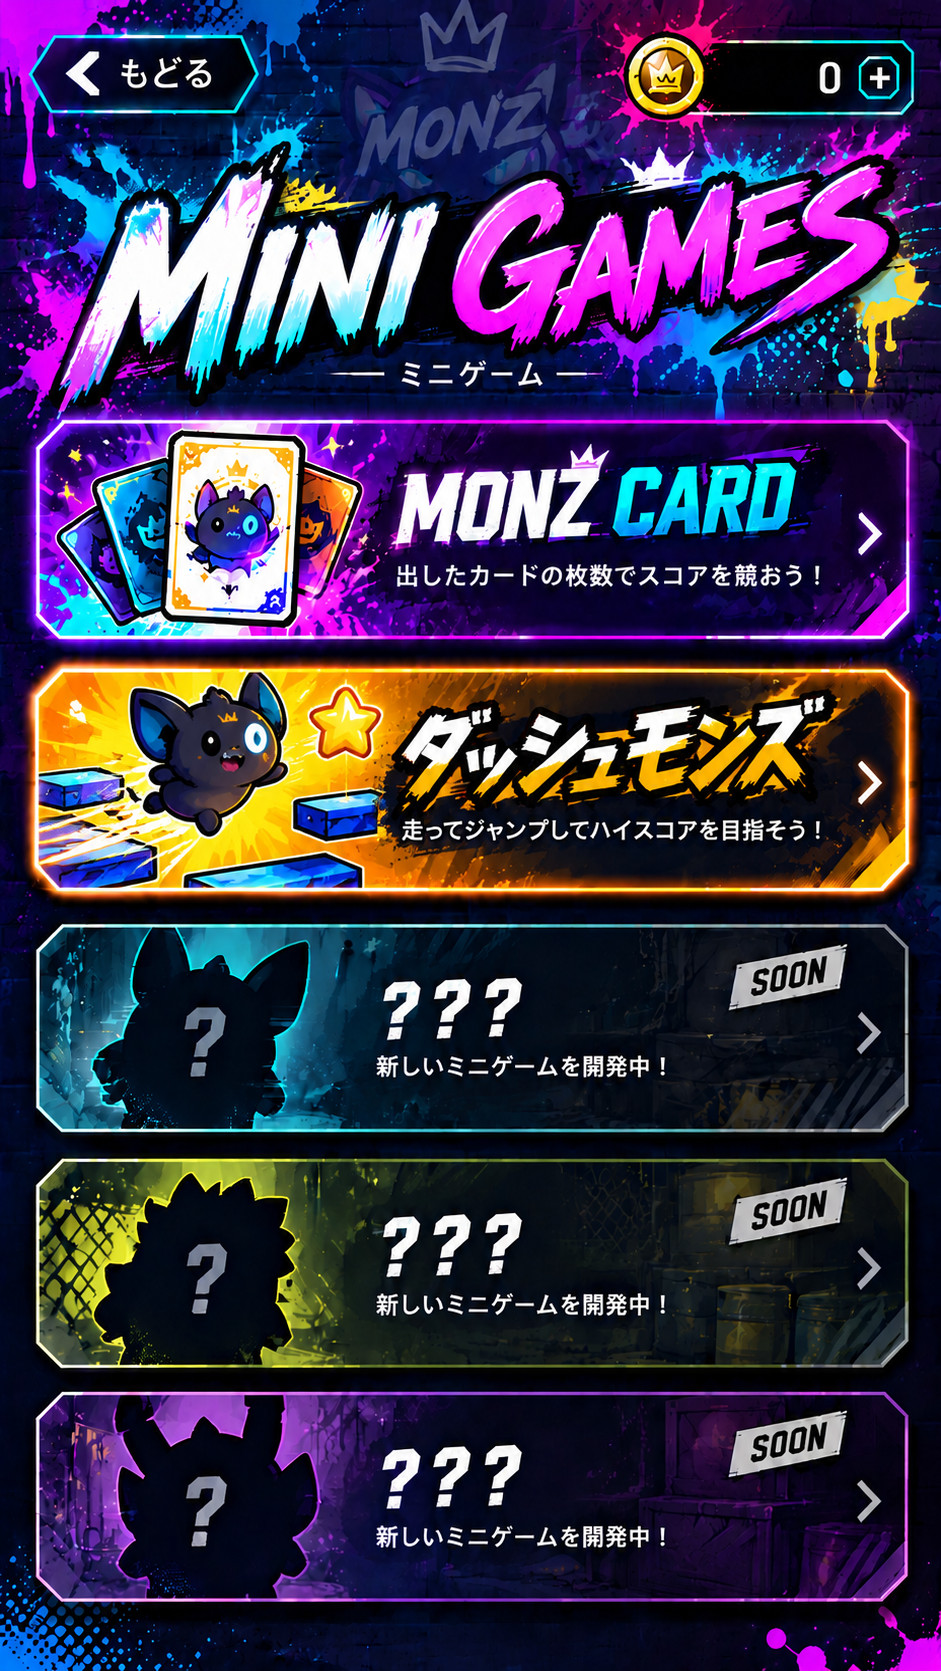
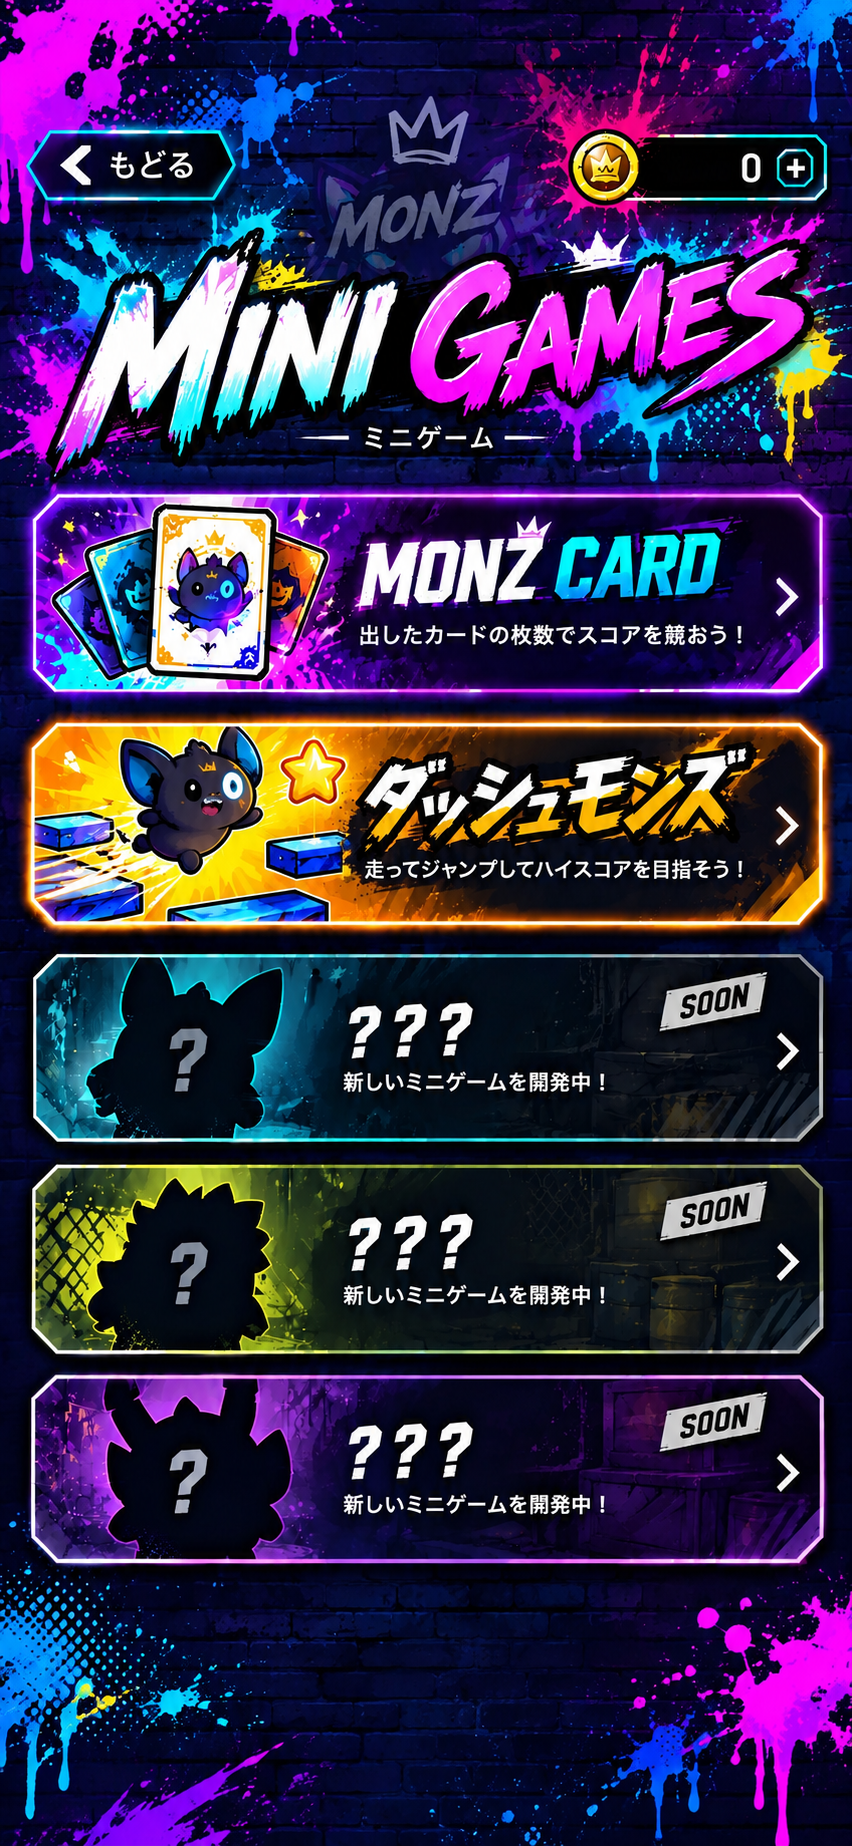
ミニゲーム選択を全画面用の縦長の絵に
Claude-Session: https://claude.ai/code/session_01MXithgTc5umkveoyZShZHQ

diff --git a/src/scenes/MinigameSelectScene.ts b/src/scenes/MinigameSelectScene.ts
@@ -7,28 +7,32 @@ import { canvasTexture, canvasTextureOnce, UI_FONT } from '../ui/paint';
 import { drawPanel } from '../ui/homeArt';
 import { homeIconKey } from './HomeScene';
 import { preloadPacks } from '../render/packs';
+import { fillSize } from '../ui/viewport';
 
 const W = 720;
 const H = 1280;
 const CARD = { w: 660, h: 176, gap: 22, top: 300 };
 
-/** 企画者のセレクト画面の絵(design/minigame/select.png・941x1671)。押せる場所は、この絵の座標で決める */
+/**
+ * 企画者のセレクト画面の絵(design/minigame/select.png)。押せる場所は、この絵の座標で決める。
+ * 2026-11-08 全画面用の 縦長の 絵(852x1846)に 作り直し(前の 絵 941x1671 は unused/)
+ */
 export const SELECT_IMAGE = 'mg:select';
-const ART = { w: 941, h: 1671 };
-const ART_BACK = [30, 38, 255, 110];
+const ART = { w: 852, h: 1846 };
+const ART_BACK = [26, 128, 238, 204];
 /** 上から MONZ CARD・ダッシュモンズ・？？？×3 の看板 */
 const ART_CARDS = [
-  [38, 420, 910, 640],
-  [38, 668, 910, 890],
-  [38, 925, 910, 1132],
-  [38, 1160, 910, 1367],
-  [38, 1393, 910, 1602],
+  [33, 494, 822, 691],
+  [33, 723, 822, 924],
+  [33, 954, 822, 1140],
+  [33, 1165, 822, 1353],
+  [33, 1375, 822, 1562],
 ];
 /** 企画者の絵に名前まで描いてあるゲームの数(これより後のゲームは、？？？の上に名前を重ねて出す) */
 const ART_PAINTED = 2;
 /** 看板の中の「？？？・説明」と「SOON」の場所(看板の左上からの位置) */
-const ART_SLOT_TEXT = [332, 36, 712, 176];
-const ART_SLOT_SOON = [712, 12, 858, 176];
+const ART_SLOT_TEXT = [300, 30, 620, 172];
+const ART_SLOT_SOON = [620, 10, 770, 110];
 
 /**
  * あとから届いた看板の絵(ゲームの id ごと)。frame: 絵の中の黄色い枠の位置(元の絵の大きさ srcW での座標)。
@@ -39,7 +43,7 @@ export const SELECT_CARD_ART: Record<string, { key: string; file: string; srcW: 
 };
 
 /** 絵に描いてある「0」を隠して、本当のコインの数を出す場所 */
-const ART_COIN_NUMBER = [715, 52, 846, 104];
+const ART_COIN_NUMBER = [650, 140, 772, 190];
 
 /**
  * ミニゲームのセレクト画面(お世話画面の「ミニゲーム」から開く)。
@@ -64,9 +68,14 @@ export class MinigameSelectScene extends Phaser.Scene {
 
   /** 企画者の絵で作る */
   private buildFromArt(): void {
+    // 全画面: 絵の 形の まま 横はばに 合わせる(画面が 絵より 長ければ 下は 背景色)
     const sx = W / ART.w;
-    const sy = H / ART.h;
-    this.add.image(0, 0, SELECT_IMAGE).setOrigin(0, 0).setDisplaySize(W, H);
+    const sy = sx;
+    const tall = Math.max(fillSize(this, { w: W, h: H }, { minRatio: 0.4, maxRatio: W / H }).h, H);
+    this.scale.setGameSize(W, tall);
+    this.events.once(Phaser.Scenes.Events.SHUTDOWN, () => this.scale.setGameSize(W, H));
+    this.cameras.main.setBackgroundColor('#0b0a18');
+    this.add.image(0, 0, SELECT_IMAGE).setOrigin(0, 0).setDisplaySize(W, ART.h * sy);
     const zone = ([x0, y0, x1, y1]: number[], onTap: (z: Phaser.GameObjects.Rectangle) => void) => {
       const z = this.add.rectangle(x0 * sx, y0 * sy, (x1 - x0) * sx, (y1 - y0) * sy, 0xffffff, 0).setOrigin(0, 0).setInteractive({ useHandCursor: true });
       z.on('pointerdown', () => onTap(z));
@@ -134,7 +143,7 @@ export class MinigameSelectScene extends Phaser.Scene {
 
   private toast(msg: string): void {
     const t = this.add
-      .text(W / 2, H * 0.5, msg, { fontFamily: UI_FONT, fontSize: '34px', fontStyle: '900', color: '#ffffff', backgroundColor: '#16101cdd', padding: { x: 22, y: 12 } })
+      .text(W / 2, this.scale.height * 0.5, msg, { fontFamily: UI_FONT, fontSize: '34px', fontStyle: '900', color: '#ffffff', backgroundColor: '#16101cdd', padding: { x: 22, y: 12 } })
       .setOrigin(0.5)
       .setDepth(10);
     this.tweens.add({ targets: t, alpha: 0, y: t.y - 40, delay: 900, duration: 400, onComplete: () => t.destroy() });

diff --git a/src/ui/viewport.ts b/src/ui/viewport.ts
@@ -43,7 +43,7 @@ export function watchViewport(scene: Phaser.Scene, onChange: () => void): void {
 /** ふつうの たての 画面の 大きさ */
 export const PORTRAIT_SIZE = { w: 720, h: 1280 } as const;
 /** 自分で 画面の 大きさを 決める 画面(MYTHCLASH・3D・冒険・ストーリーなど)は さわらない */
-const OWN_SIZE = new Set(['Boot', 'Birth', 'Title', 'Battle3D', 'RumbleMode', 'RumbleStory', 'Adventure', 'AutoBattle', 'Battle', 'Compare', 'BunkParts', 'MythTitle', 'MythMode', 'MythDeck', 'MythTower', 'MythFloor', 'MythBattle', 'MythGuide', 'Binder']);
+const OWN_SIZE = new Set(['Boot', 'Birth', 'Title', 'MinigameSelect', 'Battle3D', 'RumbleMode', 'RumbleStory', 'Adventure', 'AutoBattle', 'Battle', 'Compare', 'BunkParts', 'MythTitle', 'MythMode', 'MythDeck', 'MythTower', 'MythFloor', 'MythBattle', 'MythGuide', 'Binder']);
 
 /**
  * 2026-11-08 企画者「下の 余白が 気になる・アプリゲームとして 出すから 全画面がいい」:
